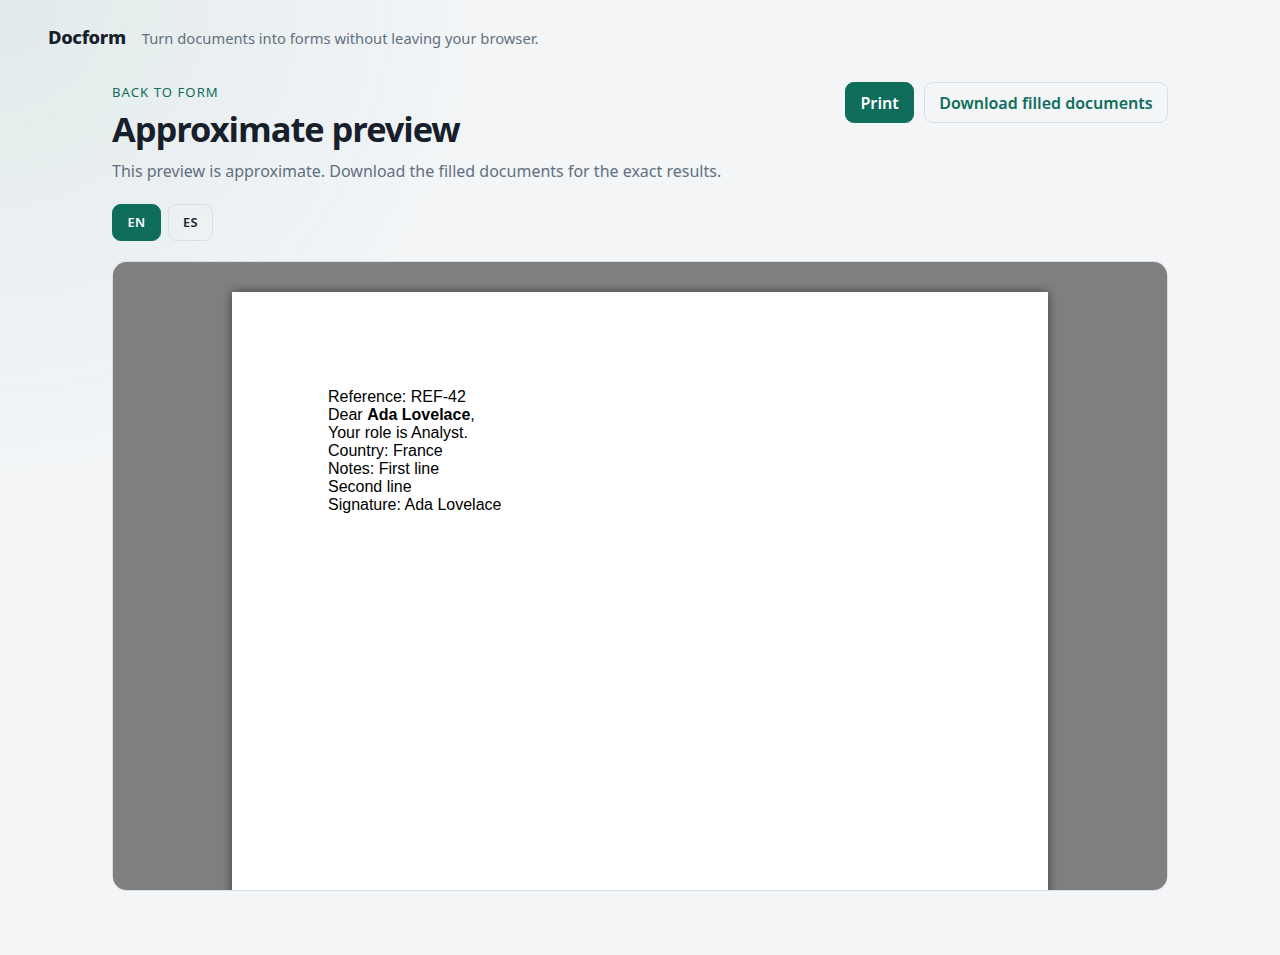
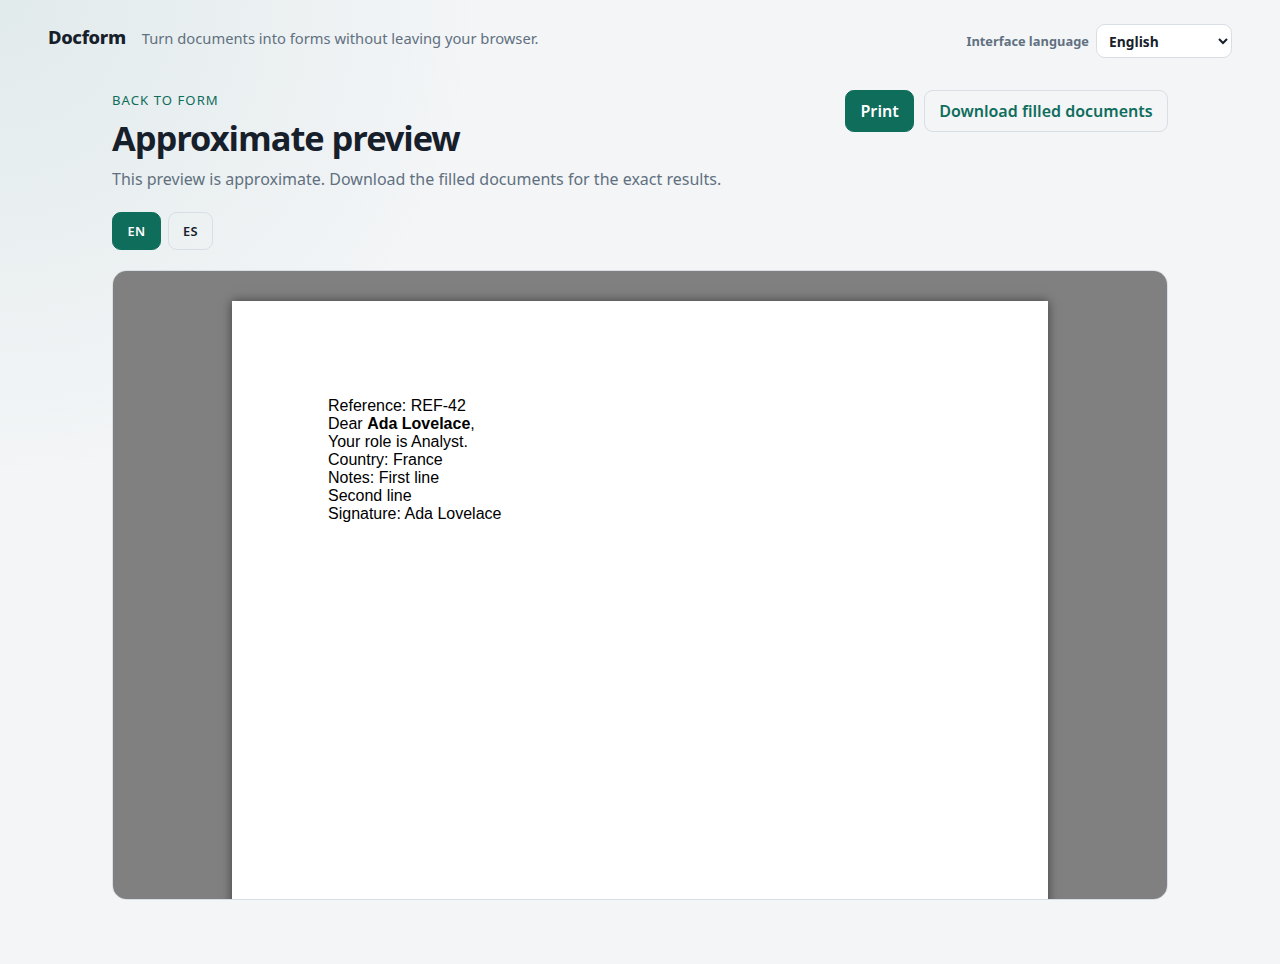
Complete interface locale contract and audit

diff --git a/src/test/ui.test.tsx b/src/test/ui.test.tsx
@@ -36,6 +36,28 @@ const summarySingle: FormSummary = {
   variantCount: 1,
 }
 
+const viewSingle: FormView = {
+  ...summary,
+  route: 'ghi789',
+  displayName: 'Legacy contract',
+  originalFilename: 'legacy.docx',
+  primaryLocale: 'und',
+  locales: ['und'],
+  variantCount: 1,
+  definition: {
+    route: 'ghi789',
+    primaryLocale: 'und',
+    variants: [
+      {
+        locale: 'und',
+        format: 'docx',
+        templateHash: 'c'.repeat(64),
+        fields: [{ label: 'Name', kind: 'text' }],
+      },
+    ],
+  },
+}
+
 const view: FormView = {
   ...summary,
   definition: {
@@ -212,6 +234,32 @@ describe('LibraryPage', () => {
     expect(screen.queryByText('raw diagnostic')).not.toBeInTheDocument()
   })
 
+  it('localizes the delete confirmation', async () => {
+    const confirm = vi.spyOn(window, 'confirm').mockReturnValue(false)
+    render(
+      <MemoryRouter>
+        <I18nProvider initialLocale="es">
+          <ServicesProvider
+            value={{
+              forms: makeForms({ list: async () => [summary] }),
+              preview: fakePreview,
+            }}
+          >
+            <LibraryPage />
+          </ServicesProvider>
+        </I18nProvider>
+      </MemoryRouter>,
+    )
+
+    await userEvent.click(
+      await screen.findByRole('button', { name: 'Eliminar' }),
+    )
+
+    expect(confirm).toHaveBeenCalledWith(
+      '¿Eliminar este formulario? Se eliminarán sus plantillas y su ruta.',
+    )
+  })
+
   it('localizes library list failures', async () => {
     render(
       <MemoryRouter>
@@ -340,6 +388,21 @@ describe('FormPage', () => {
     expect(screen.getByText('Idioma principal')).toBeInTheDocument()
   })
 
+  it('localizes the detected screen in Basque', async () => {
+    renderFormPage(
+      makeForms({ get: async () => view }),
+      '/f/abc123?detected=1',
+      'eu',
+    )
+
+    expect(
+      await screen.findByRole('heading', { name: 'Detektatutako eremuak' }),
+    ).toBeInTheDocument()
+    expect(screen.getByText('Dokumentuen hizkuntzak')).toBeInTheDocument()
+    expect(screen.getByText('Testua')).toBeInTheDocument()
+    expect(screen.getByText('Hautaketa')).toBeInTheDocument()
+  })
+
   it('explains an unknown route', async () => {
     renderFormPage(makeForms({ get: async () => null }))
 
@@ -376,6 +439,16 @@ describe('FormPage', () => {
     expect(
       screen.getByRole('button', { name: 'Aurrebista' }),
     ).toBeInTheDocument()
+  })
+
+  it('omits the document lang when the primary locale is undetermined', async () => {
+    renderFormPage(
+      makeForms({ get: async () => viewSingle }),
+      '/f/ghi789',
+      'es',
+    )
+
+    expect(await screen.findByText('Name')).not.toHaveAttribute('lang')
   })
 
   it('preserves answers when the interface language changes', async () => {
@@ -716,6 +789,10 @@ describe('App shell', () => {
 
     expect(screen.getByRole('heading', { name: 'Your forms' })).toBeInTheDocument()
     const select = screen.getByRole('combobox')
+    expect(screen.getByRole('option', { name: 'Euskara' })).toHaveAttribute(
+      'lang',
+      'eu',
+    )
 
     await userEvent.selectOptions(select, 'es')
     expect(screen.getByRole('heading', { name: 'Tus formularios' })).toBeInTheDocument()
@@ -938,6 +1015,17 @@ describe('App shell', () => {
     expect(
       screen.getByRole('button', { name: /importar paquete/i }),
     ).toBeInTheDocument()
+
+    const expectedDate = new Intl.DateTimeFormat('es', {
+      dateStyle: 'medium',
+      timeStyle: 'short',
+    }).format(new Date(summary.createdAt))
+    expect(
+      screen.getAllByText(
+        (content, element) =>
+          element?.tagName === 'SPAN' && content.includes(expectedDate),
+      ).length,
+    ).toBeGreaterThan(0)
   })
 
   it('localizes the unknown-route page', async () => {
@@ -945,6 +1033,14 @@ describe('App shell', () => {
 
     expect(
       await screen.findByRole('heading', { name: 'Página no encontrada' }),
+    ).toBeInTheDocument()
+  })
+
+  it('localizes the unknown-route page in Basque', async () => {
+    renderApp('/missing', 'eu')
+
+    expect(
+      await screen.findByRole('heading', { name: 'Orria ez da aurkitu' }),
     ).toBeInTheDocument()
   })
 

diff --git a/README.md b/README.md
@@ -1,8 +1,10 @@
 # Docform
 
-A client-only React app that turns a set of DOCX or ODT templates containing `{{placeholders}}` into one fillable form and returns one filled document per language. Nothing leaves the browser.
+A client-only React app that turns a set of DOCX or ODT templates containing `{{placeholders}}` into one fillable form and returns one filled document per language. The interface is available in Basque, Spanish, and English. Nothing leaves the browser.
 
 ![The form library](docs/screenshots/library.png)
+
+![The library in Basque](docs/screenshots/library-eu.png)
 
 ## What it does
 
@@ -43,6 +45,14 @@ A form is an ordered **variant set**: one template per locale, one shared fill, 
 
 The app cannot detect two option lists that happen to have the same length but different meanings. Keep the option order aligned in every template; a count mismatch fails the upload.
 
+## Interface languages
+
+The header has an **Interface language** switcher with Euskara, Español, and English. The choice is detected from the browser on first use, remembered in browser-local storage, and used for the chrome, validation, errors, dates, counts, and accessibility labels.
+
+The interface locale is independent of document languages. Switching it never changes the primary variant, template labels or options, document-language tabs, form data, or generated documents. Template content is not translated. The app updates `<html lang>` for the interface and marks template-derived text with its document language where known.
+
+Errors are reported as stable codes with structured details and localized from typed catalogs. The English diagnostic message is for development only and is never shown. Preview failures show a localized message; the raw renderer reason sits in a collapsed “Technical details” disclosure.
+
 ![The generated form](docs/screenshots/form.png)
 
 ## Run
@@ -61,7 +71,7 @@ npm test
 npm run build
 ```
 
-`npm run smoke` drives a real Chrome through a bilingual upload, fill, ZIP download, English DOCX preview, and Spanish ODT preview using the system Chrome at `/usr/bin/google-chrome`. It writes screenshots and the filled ZIP to `/tmp/opencode/docform-smoke`.
+`npm run smoke` drives a real Chrome through the three interface languages, a bilingual upload, fill, ZIP download, English DOCX preview, and Spanish ODT preview using the system Chrome at `/usr/bin/google-chrome`. It writes screenshots and the filled ZIP to `/tmp/opencode/docform-smoke`.
 
 ## Storage and privacy
 
@@ -72,8 +82,9 @@ npm run build
 
 ## Architecture
 
-- `src/domain/` — declaration grammar, variant validation, DOCX/ODT text-node substitution, package detection, hashing.
+- `src/domain/` — declaration grammar, variant validation, DOCX/ODT text-node substitution, package detection, hashing, and structured error codes.
 - `src/app/TemplateForms.ts` — the application service the UI consumes: variant-set ingest, list, get, rename, remove, fill, export/import.
+- `src/i18n/` — interface-locale detection, typed catalogs, date/count formatting, and the error-message adapter.
 - `src/storage/` — the IndexedDB store.
 - `src/preview/` — a `PreviewRenderer` port with lazy `docx-preview` and `@opendocument/odr-core` adapters.
 - `src/pages/` — library, form, preview, and not-found pages.
@@ -92,11 +103,16 @@ Preview HTML is isolated in an opaque-origin iframe (`sandbox="allow-scripts"` w
 - All fields are optional; there are no required, conditional, or computed fields.
 - Preview is approximate. The downloaded documents are authoritative.
 - Forms are local to one browser profile; there are no share links, accounts, or collaboration.
+- The interface has three initial locales: Basque, Spanish, and English. Template content is not translated by the interface language.
+- The interface language is a browser preference, not form data; it is not carried in routes or `.formpack.json` files.
 
 ## Design docs
 
-- Spec: [`.scratch/template-form/spec.md`](.scratch/template-form/spec.md)
+- Specs:
+  - [`.scratch/template-form/spec.md`](.scratch/template-form/spec.md)
+  - [`.scratch/multilingual-interface/spec.md`](.scratch/multilingual-interface/spec.md)
 - Glossary: [`GLOSSARY.md`](GLOSSARY.md)
 - ADRs:
   - [`docs/adr/0001-inline-field-declarations.md`](docs/adr/0001-inline-field-declarations.md)
   - [`docs/adr/0002-language-variant-sets.md`](docs/adr/0002-language-variant-sets.md)
+  - [`docs/adr/0003-interface-locale-and-localized-errors.md`](docs/adr/0003-interface-locale-and-localized-errors.md)

diff --git a/.scratch/multilingual-interface/issues/08-final-locale-contract-audit-and-docs.md b/.scratch/multilingual-interface/issues/08-final-locale-contract-audit-and-docs.md
@@ -4,14 +4,14 @@
 
 **Blocked by:** 01 — Interface-locale foundation, switcher, app shell, and library; 02 — Localized new-form and detected-fields screens; 03 — Localized form filling and document-set download; 04 — Localized preview and document-language tabs; 05 — Localized template and variant-validation errors; 06 — Localized package and library-action errors; 07 — Localized form and preview runtime errors
 
-**Status:** ready-for-agent
+**Status:** done
 
-- [ ] The old flat strings object and all direct imports are removed. Every user-facing surface reads from the interface-locale provider and catalogs.
-- [ ] A full audit in `eu`, `es`, and `en` covers the header, library, new-form panel, detected screen, form page, preview, not-found page, unexpected-error fallback, confirmations, warnings, `aria-label`s, iframe titles, badges, dates, and plurals. No hardcoded user-facing English remains.
-- [ ] Language attributes are correct: `<html lang>` is the interface locale; template-derived text uses the primary document locale; `und` omits the attribute; endonyms carry their own `lang`; no flags are used.
-- [ ] The interface switcher is visible and usable on every route, including error states, and never resets form answers.
-- [ ] Document-language behavior is unchanged: primary variant, field labels and options, document tabs, routes, packages, filenames, and IndexedDB data.
-- [ ] The browser smoke flow switches through `eu`, `es`, and `en`, verifies representative translated chrome, then runs the bilingual upload, fill, ZIP, and preview flow. It finishes with zero console errors.
-- [ ] The glossary adds “Interface locale” and distinguishes it from Locale, Language variant, Primary variant, and Variant set. A new ADR records the independence of interface locale and document language, plus the typed-catalog decision. The README describes the switcher, the three initial locales, detection and persistence, and that document content is not translated. Documentation screenshots are refreshed if the UI changed.
-- [ ] Typecheck, lint, tests, build, and smoke all pass.
-- [ ] No raw error diagnostic is rendered anywhere in the interface.
+- [x] The old flat strings object and all direct imports are removed. Every user-facing surface reads from the interface-locale provider and catalogs.
+- [x] A full audit in `eu`, `es`, and `en` covers the header, library, new-form panel, detected screen, form page, preview, not-found page, unexpected-error fallback, confirmations, warnings, `aria-label`s, iframe titles, badges, dates, and plurals. No hardcoded user-facing English remains.
+- [x] Language attributes are correct: `<html lang>` is the interface locale; template-derived text uses the primary document locale; `und` omits the attribute; endonyms carry their own `lang`; no flags are used.
+- [x] The interface switcher is visible and usable on every route, including error states, and never resets form answers.
+- [x] Document-language behavior is unchanged: primary variant, field labels and options, document tabs, routes, packages, filenames, and IndexedDB data.
+- [x] The browser smoke flow switches through `eu`, `es`, and `en`, verifies representative translated chrome, then runs the bilingual upload, fill, ZIP, and preview flow. It finishes with zero console errors.
+- [x] The glossary adds “Interface locale” and distinguishes it from Locale, Language variant, Primary variant, and Variant set. A new ADR records the independence of interface locale and document language, plus the typed-catalog decision. The README describes the switcher, the three initial locales, detection and persistence, and that document content is not translated. Documentation screenshots are refreshed if the UI changed.
+- [x] Typecheck, lint, tests, build, and smoke all pass.
+- [x] No raw error diagnostic is rendered in a primary message. The collapsed preview “Technical details” disclosure is the only exception.

diff --git a/docs/adr/0003-interface-locale-and-localized-errors.md b/docs/adr/0003-interface-locale-and-localized-errors.md
@@ -1,0 +1,15 @@
+# Interface locale is independent of document language
+
+Status: accepted
+
+Docform now has two language concepts. A **document language** belongs to a template and its language variant; it governs the labels, options, and filled document. An **interface locale** belongs to the browser and governs the app chrome, validation, dates, counts, and assistive labels. The initial interface locales are Basque, Spanish, and English.
+
+We keep them independent. Changing the interface locale never changes the primary variant, the template labels or options, the document-language tabs, or the generated documents. The filler sees authored template content in its document language while the surrounding controls use the interface locale. The header control is labelled “Interface language” so it cannot be mistaken for the document-language tabs.
+
+The interface locale resolves from a saved browser preference first, then the first supported base language in the browser's language list, then English. The preference lives in browser-local storage only. It is not part of a form definition, route, package, or IndexedDB record. Changing it does not create a new form.
+
+Catalogs are typed in-house, one per locale. English defines the message shape; Spanish and Basque must satisfy the same type, so a missing key fails typecheck. Dynamic messages are functions; static messages are strings. We did not add a runtime i18n library because the product has three locales, no server, and no runtime-loaded translations. `Intl.DateTimeFormat` and `Intl.PluralRules` (or equivalent) handle dates and counts.
+
+Errors cross the domain/UI boundary as stable codes plus a detail sub-reason and structured values such as locale, label, missing labels, field kinds, and option counts. The catalog turns those into the current interface locale. The existing English `message` stays as a developer diagnostic and is never rendered. This keeps the domain and service layers independent of the interface locale. Technical preview reasons are shown only inside a collapsed “Technical details” disclosure.
+
+Template content is never translated by the interface locale. A future canonical option-ID or mapping-editor decision would revise ADR 0002, not this one. A future locale is added by adding a catalog and a supported-locale entry, not by changing pages.

diff --git a/GLOSSARY.md b/GLOSSARY.md
@@ -21,8 +21,16 @@ The variant whose labels, field order, and select options the filler sees.
 _Avoid_: Main template, base file
 
 **Locale**:
-A language tag such as `en`, `es`, `eu`, or `en-GB`.
+A language tag such as `en`, `es`, `eu`, or `en-GB`. A document language and an interface locale are both locales, but they are chosen separately.
 _Avoid_: Language code, selector
+
+**Document language**:
+The language of a template, its labels and options, and its filled document.
+_Avoid_: Form language, template language (when ambiguous)
+
+**Interface locale**:
+The language of the app chrome, validation, dates, and assistive labels. It is independent of document languages.
+_Avoid_: UI language, app language (when ambiguous)
 
 **Option pairing**:
 The positional correspondence between the options of the same select field across variants.
